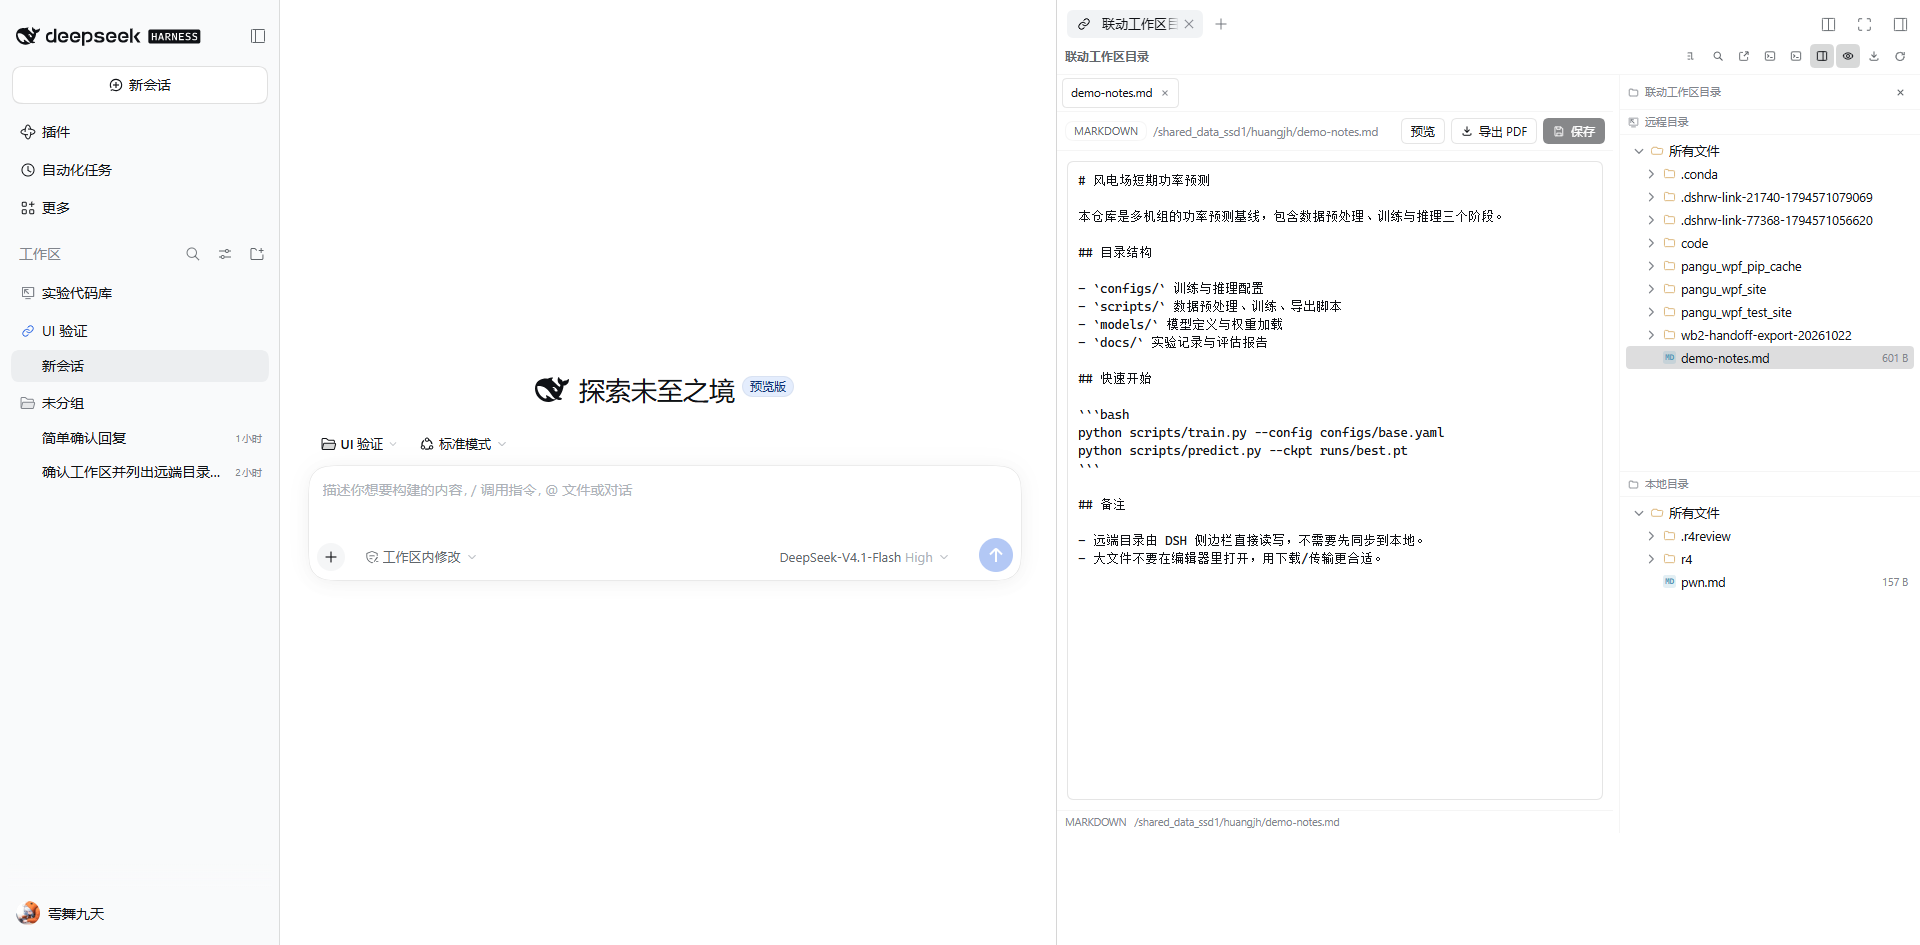
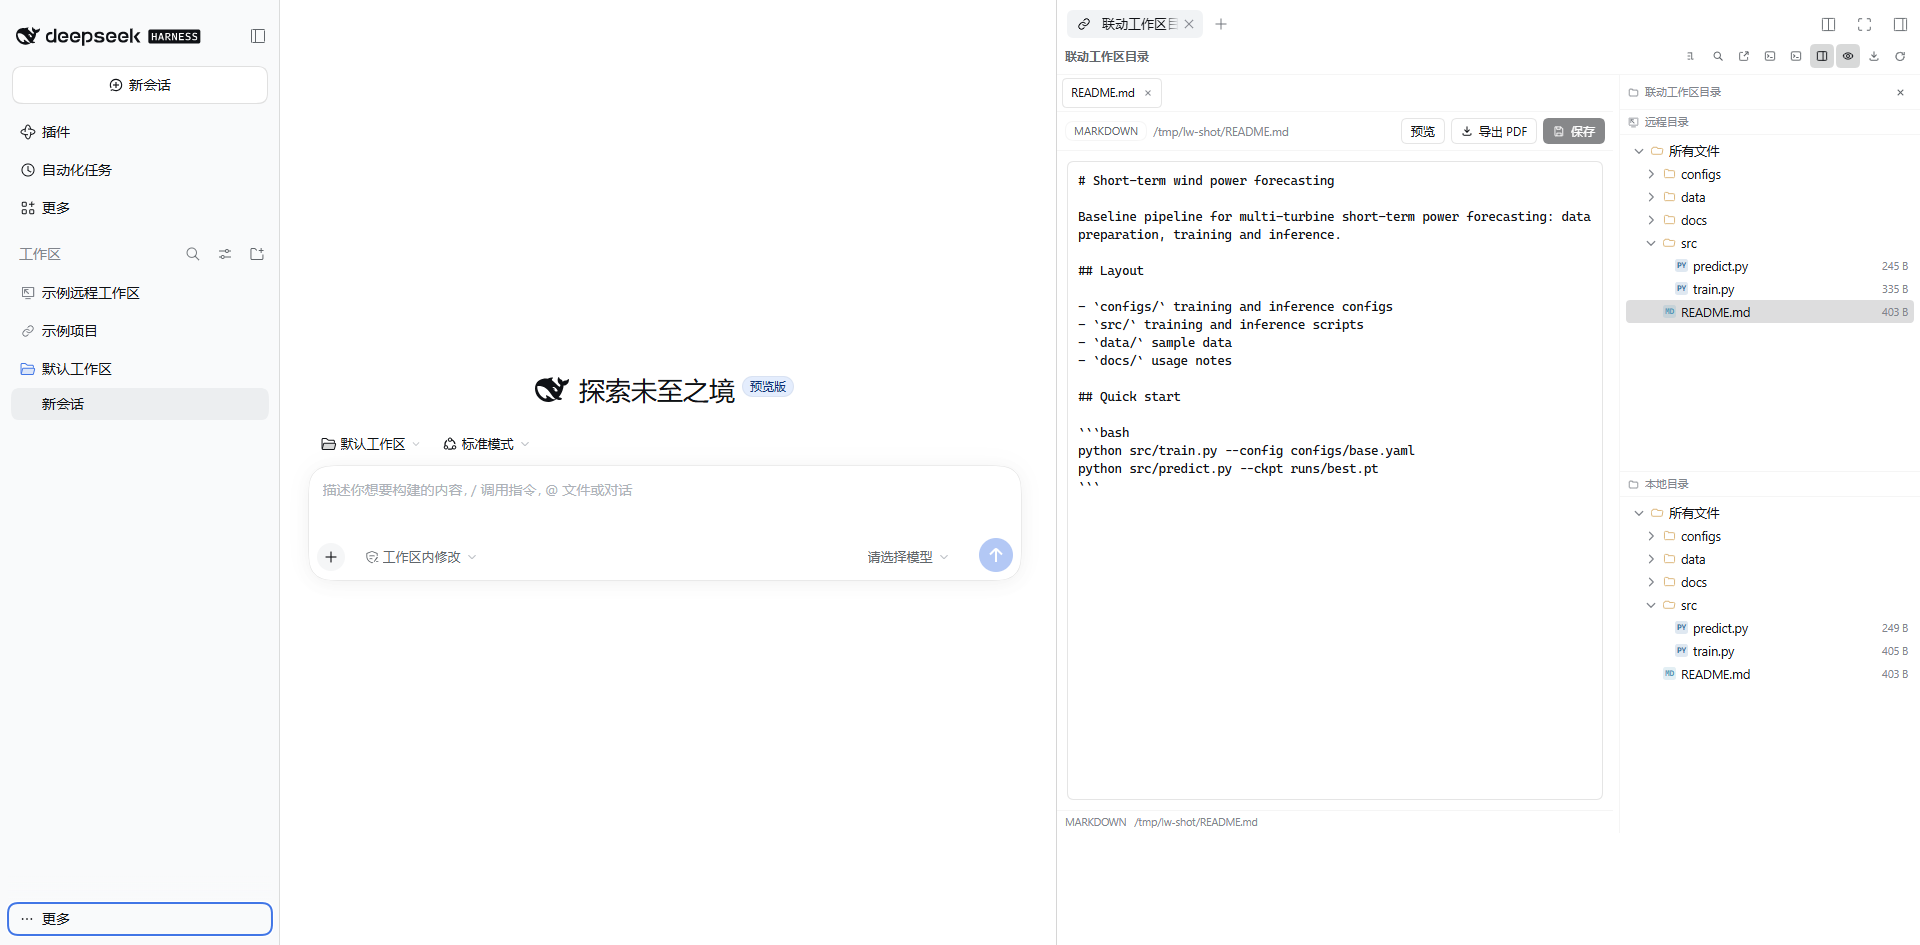
docs: reshoot README screenshots without personal details

diff --git a/README.en.md b/README.en.md
@@ -125,13 +125,9 @@ The workspace resolves automatically when the session cwd falls inside a linked 
 
 ## Screenshots
 
-Settings → “Linked workspaces”: the upper half lists **linked workspaces** (local folder ⇄ remote folder; each card shows the connection state, the mirror switch and the sync button).
+Settings → “Linked workspaces”: the upper half lists **linked workspaces** (local folder ⇄ remote folder), the lower half lists **remote workspaces** (the session runs inside the remote folder). Each card shows the connection state; linked workspaces also have the mirror switch and the sync button. The host name and the local placeholder path are blurred in this shot.
 
 ![Settings → Linked workspaces](docs/screenshots/settings-connections.png)
-
-The lower half lists **remote workspaces** (the session runs inside the remote folder; only a placeholder folder lives locally).
-
-![Settings → Remote workspaces](docs/screenshots/settings-remote.png)
 
 The “Linked workspace directory” tab: the remote tree on top, the local tree below; files open from either side.
 

diff --git a/README.md b/README.md
@@ -125,13 +125,9 @@
 
 ## 界面
 
-设置 →「联动工作区」：上半部分是**联动工作区**（本地目录 ⇄ 远端目录，卡片里能看到连接状态、镜像开关和同步按钮）。
+设置 →「联动工作区」：上半部分是**联动工作区**（本地目录 ⇄ 远端目录），下半部分是**远程工作区**（会话直接运行在远端目录）。卡片里能看到连接状态，联动工作区还有镜像开关和同步按钮。图中的主机名与本地占位目录做了模糊处理。
 
 ![设置 → 联动工作区](docs/screenshots/settings-connections.png)
-
-下半部分是**远程工作区**（会话直接运行在远端目录，本地只留一个占位目录）。
-
-![设置 → 远程工作区](docs/screenshots/settings-remote.png)
 
 「联动工作区目录」标签页：上面是远端目录，下面是本地目录，两边都能点开文件。
 
